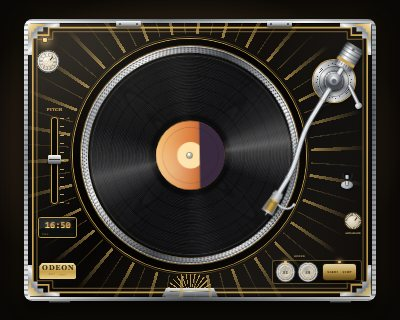
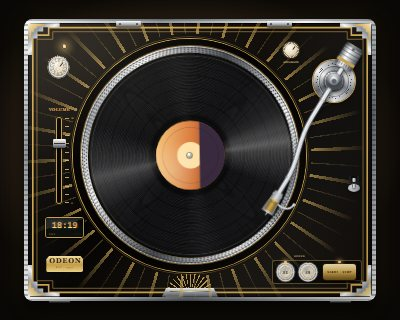
Clipping fixes (knobs, plates, frame lines, DJ keys, acrylic strip); pitch fader replaced by a volume fader; start.bat closes its console with plain exit (exit /b left it open under cmd /k)

diff --git a/app.js b/app.js
@@ -610,13 +610,17 @@ document.querySelectorAll('.pbtn[data-spd]').forEach(b => b.onclick = () => {
   document.querySelectorAll('.pbtn[data-spd]').forEach(x => x.classList.toggle('on', x === b));
 });
 $('spd33').classList.add('on'); document.documentElement.dataset.rpm = '33';
-{ const slot = document.querySelector('#pitch .slot'), fader = document.querySelector('#pitch .fader');
-  const move = e => { const r = slot.getBoundingClientRect(), f = clamp((e.clientY - r.top) / r.height, 0, 1);
-    fader.style.top = (f * 100) + '%'; fader.style.marginTop = 'calc(var(--u) * -1.2)';
-    rpmPitch = 1.08 - f * 0.16; setRpm(); const p = (rpmPitch - 1) * 100; flashVfd((p >= 0 ? '+' : '') + p.toFixed(1) + '%', 1200); };
+{ // the long fader is the volume control (it used to change the record speed, which nobody could hear)
+  const slot = document.querySelector('#pitch .slot'), fader = document.querySelector('#pitch .fader'); let told = false;
+  const show = v => { fader.style.top = ((1 - v / 100) * 100) + '%'; fader.style.marginTop = 'calc(var(--u) * -1.2)'; };
+  const setVol = v => { v = Math.round(clamp(v, 0, 100)); store.set('vol', v); $('vol').value = v; show(v); S.player && S.player.setVolume(v / 100);
+    flashVfd('VOL ' + String(v).padStart(3, ' '), 1200);
+    if (IS_IOS && !told) { told = true; toast('On the iPad the volume is set with the iPad volume buttons'); } };
+  const move = e => { const r = slot.getBoundingClientRect(); setVol((1 - clamp((e.clientY - r.top) / r.height, 0, 1)) * 100); };
+  show(store.get('vol') ?? 70);
   slot.parentElement.addEventListener('pointerdown', e => { e.stopPropagation(); slot.setPointerCapture?.(e.pointerId); move(e); slot.onpointermove = move; });
   slot.parentElement.addEventListener('pointerup', () => { slot.onpointermove = null; });
-  slot.parentElement.addEventListener('dblclick', () => { fader.style.top = ''; fader.style.marginTop = ''; rpmPitch = 1; setRpm(); flashVfd('+0.0%'); }); }
+  window.vdpShowVol = show; }
 
 $('bPlay').onclick = togglePlay; $('bNext').onclick = next; $('bPrev').onclick = prev;
 $('bPlaylists').onclick = openSheet; $('sheetClose').onclick = () => $('sheet').classList.add('hidden');
@@ -633,7 +637,7 @@ $('bDust').onclick = () => { Sound.on = !Sound.on; store.set('crackle', Sound.on
   toast(Sound.on ? 'Vinyl crackle on' : 'Vinyl crackle off'); };
 if (IS_IOS) $('vol').style.display = 'none'; // iOS ignores web volume; use the iPad volume buttons
 $('vol').value = store.get('vol') ?? 70;
-$('vol').oninput = e => { store.set('vol', +e.target.value); S.player && S.player.setVolume(e.target.value / 100); };
+$('vol').oninput = e => { store.set('vol', +e.target.value); S.player && S.player.setVolume(e.target.value / 100); window.vdpShowVol && window.vdpShowVol(+e.target.value); };
 
 /* ---------- turntable skins: same player, different cabinet (looks live in skins.css) ---------- */
 const SKINS = [

diff --git a/skins.css b/skins.css
@@ -717,3 +717,33 @@ html[data-disc="cover"] { --rec-bg: radial-gradient(circle, rgba(255,255,255,.1)
 [data-skin="marble"] #antiskate .dial { box-shadow: 0 calc(var(--u) * .4) calc(var(--u) * .8) rgba(60,45,20,.5), 0 0 0 calc(var(--u) * .25) #c9a64f, 0 0 0 calc(var(--u) * .45) rgba(255,255,255,.8); }
 /* deeper veins: second vein layer in warm gold, softer cloud */
 [data-skin="marble"] #plinth::before { background: linear-gradient(115deg, rgba(255,255,255,.5), transparent 38%, rgba(255,255,255,.22) 70%, transparent), radial-gradient(ellipse 50% 40% at 80% 85%, rgba(201,166,79,.1), transparent 70%); }
+
+
+/* =====================================================================
+   v15: clipping fixes (parts no longer touch frame lines, corners or each other)
+   ===================================================================== */
+/* power knob: kept clear of the inlay line / frame in every skin */
+[data-skin="teak"] #powerknob { left: calc(var(--u) * 5.2); top: calc(var(--u) * 9); }
+[data-skin="teak"] #led { left: calc(var(--u) * 7.8); top: calc(var(--u) * 19.2); }
+[data-skin="teak"] #pitch { left: calc(var(--u) * 5); top: calc(var(--u) * 26); }
+[data-skin="acrylic"] #powerknob { left: calc(var(--u) * 5.4); top: calc(var(--u) * 9.4); }
+[data-skin="acrylic"] #led { left: calc(var(--u) * 8); top: calc(var(--u) * 5.4); }
+[data-skin="acrylic"] #deco .d1, [data-skin="acrylic"] #deco .d2 { display: none; }   /* thin inner frame lines ran through the knob, name plate and standoffs */
+[data-skin="acrylic"] #badge { left: calc(var(--u) * 5); bottom: calc(var(--u) * 7); }
+[data-skin="acrylic"] #vfd { left: calc(var(--u) * 5); }
+[data-skin="acrylic"] #pitch { left: calc(var(--u) * 5); }
+[data-skin="acrylic"] #silkDrive { bottom: calc(var(--u) * 2.9); }
+[data-skin="deco"] #powerknob { left: calc(var(--u) * 6.2); top: calc(var(--u) * 10); }
+[data-skin="deco"] #led { left: calc(var(--u) * 9.6); top: calc(var(--u) * 5.8); }
+[data-skin="deco"] #pitch { left: calc(var(--u) * 5.4); }
+[data-skin="deco"] #vfd { left: calc(var(--u) * 5.2); }
+[data-skin="deco"] #badge { left: calc(var(--u) * 5.2); bottom: calc(var(--u) * 7); }
+/* DJ: range keys and red status bar moved off the frame edge and the screws */
+[data-skin="dj"] #deco .d5 { top: calc(var(--u) * 3.4); }
+[data-skin="dj"] #deco .d6 { top: calc(var(--u) * 2.3); }
+[data-skin="dj"] #deco .d4 { left: calc(var(--u) * 5.2); width: calc(var(--u) * 8.6); bottom: calc(var(--u) * 3.4); }
+[data-skin="dj"] #badge { bottom: calc(var(--u) * 6.2); }
+[data-skin="acrylic"] #silkDrive { bottom: calc(var(--u) * 1.3); }
+[data-skin="acrylic"] #deco .d6 { bottom: calc(var(--u) * 3.2); }
+[data-skin="acrylic"] #deco .d6 { right: calc(var(--u) * 22); left: calc(var(--u) * 6); bottom: calc(var(--u) * 2.6); }
+[data-skin="acrylic"] #silkDrive { bottom: calc(var(--u) * 1.1); }

diff --git a/index.html b/index.html
@@ -77,7 +77,7 @@
     <i class="hinge hl"></i><i class="hinge hr"></i>
     <div id="led"></div>
     <div id="powerknob"><i></i><b></b><span class="kl"><em>33</em><em>45</em><em>78</em></span></div>
-    <div id="pitch"><span class="lab">PITCH</span><b class="ps t">+8</b><b class="ps m">0</b><b class="ps b">−8</b><div class="slot"><div class="fader"></div></div></div>
+    <div id="pitch"><span class="lab">VOLUME</span><b class="ps t">10</b><b class="ps m">5</b><b class="ps b">0</b><div class="slot"><div class="fader"></div></div></div>
     <div id="vfd" title="Tap: clock / time left"><span class="ghost">88:88</span><span id="vfdText"></span><i id="vfdMode"></i><i id="vfdSleep">SLEEP</i></div>
     <div id="badge"><b>VINYL</b><span>DECO · HI-FI</span></div>
 
